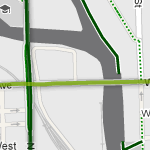
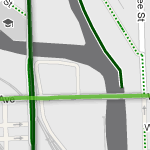
[velo] UI bug and improvements

diff --git a/htdocs/js/main.js b/htdocs/js/main.js
@@ -62,7 +62,7 @@ $(document).ready(function() {
 		style: [{
 			where: "description CONTAINS 'RECOMMENDED BIKE ROUTE'",
 			polylineOptions: {
-				strokeColor: '#77AA00',
+				strokeColor: '#55BB22',
 				strokeWeight: '4',
 				strokeOpacity: '0.75'
 			}
@@ -167,6 +167,11 @@ $(document).ready(function() {
 		var miles = distance / 1609.344;
 		miles = Math.round(miles*100)/100;
 		$('#myTextDiv').html('<b>Total Distance: '+miles+' miles.</b>');
+		if($('#directions').hasClass('alert-error'))
+		{
+			$('#directions').removeClass('alert-error');
+			$('#directions').addClass('alert-info');
+		}
 		$('#directions-text').html('<b>Total Distance: '+miles+' miles</b><br>Click above to step through directions.');
 		if($(window).width() < 769)
 		{

diff --git a/htdocs/index.html b/htdocs/index.html
@@ -124,7 +124,7 @@
 				<button id="btn-help" class="btn btn-info btn-mini">Help</button>
 			</div>
 			<div id="div-help" class="well hide">
-				<h3>Bike Routes Markings</h3>
+				<h3>Bike Route Markings</h3>
 				<div class="row-fluid">
 					<div class="span8">
 						<table class="table table-condensed table-bordered table-striped">
